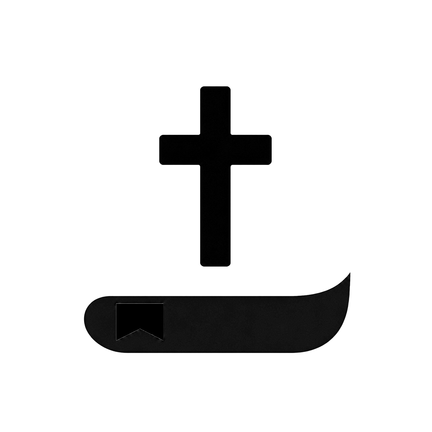
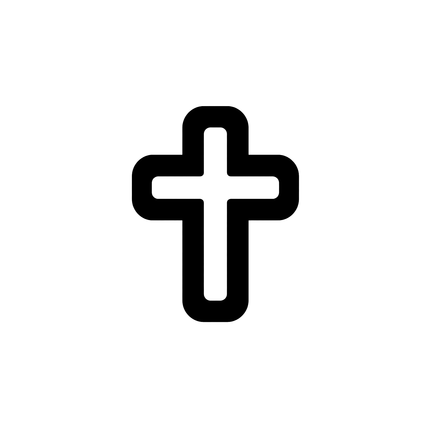
feat: adopt terracotta cross branding and app theme

Changed region(s): [[0.1806, 0.1806, 0.8125, 0.8426]]

diff --git a/scripts/generate-icons.js b/scripts/generate-icons.js
@@ -75,18 +75,11 @@ const androidSplashSizes = [
 const adaptiveForegroundScale = 0.78;
 
 // The selected square artwork contains both the launcher background and the
-// ivory cross/page mark. Android adaptive icons need those as separate layers
+// ivory cross mark. Android adaptive icons need those as separate layers
 // so the mark remains inside the launcher mask's safe area.
 const adaptiveBackgroundSvg = `
 <svg width="432" height="432" viewBox="0 0 432 432" xmlns="http://www.w3.org/2000/svg">
-  <defs>
-    <linearGradient id="blue" x1="0" y1="0" x2="1" y2="1">
-      <stop offset="0" stop-color="#24A5ED"/>
-      <stop offset="0.42" stop-color="#0D9BE0"/>
-      <stop offset="1" stop-color="#066EAD"/>
-    </linearGradient>
-  </defs>
-  <rect width="432" height="432" fill="url(#blue)"/>
+  <rect width="432" height="432" fill="#AD5942"/>
 </svg>
 `;
 
@@ -145,36 +138,9 @@ const createSelectedForegroundBuffer = async () => {
       const red = data[sourceOffset];
       const green = data[sourceOffset + 1];
       const blue = data[sourceOffset + 2];
-      let alpha = 0;
-
-      // The ivory mark is deliberately separated by its warm, high-value
-      // palette. A proportional score retains anti-aliased edges.
-      if (red > 40 && green > 125 && blue > 145) {
-        const ivoryScore = Math.min(
-          (red - 40) / 202,
-          (green - 125) / 113,
-          (blue - 145) / 83
-        );
-        alpha = Math.max(alpha, Math.min(1, ivoryScore));
-      }
-
-      // Preserve the deep-blue bookmark as a distinct foreground shape. Its
-      // source geometry is a rectangle with a centered V-shaped cut-out.
-      const inBookmarkBounds = x >= 255 && x <= 435 && y >= 952 && y <= 1095;
-      const bookmarkTipY = 1049 + Math.abs(x - 345) * (45 / 88);
-      if (
-        inBookmarkBounds &&
-        x >= 257 &&
-        x <= 433 &&
-        y >= 954 &&
-        y <= 1094 &&
-        (x <= 345 || y <= bookmarkTipY) &&
-        red < 40 &&
-        green < 130 &&
-        blue < 190
-      ) {
-        alpha = Math.max(alpha, 1);
-      }
+      // The approved cream cross has much more green than its terracotta
+      // background. Keep the cream opaque and soften only boundary pixels.
+      const alpha = Math.max(0, Math.min(1, (green - 115) / 90));
 
       output[sourceOffset] = red;
       output[sourceOffset + 1] = green;
@@ -264,7 +230,10 @@ const writeAdaptiveLegacyOutput = async (outputPath, size, round = false) => {
     const circleMask = Buffer.from(
       `<svg width="${size}" height="${size}" viewBox="0 0 ${size} ${size}" xmlns="http://www.w3.org/2000/svg"><circle cx="${size / 2}" cy="${size / 2}" r="${size / 2}" fill="white"/></svg>`
     );
-    pipeline = pipeline.composite([{ input: circleMask, blend: 'dest-in' }]);
+    pipeline = pipeline.composite([
+      { input: foreground },
+      { input: circleMask, blend: 'dest-in' },
+    ]);
   }
 
   await pipeline.webp({ lossless: true }).toFile(outputPath);
@@ -355,6 +324,7 @@ async function generateIcons() {
     );
   }
 
+  await ensureDirectory(path.join(androidResDir, 'mipmap-anydpi-v26'));
   for (const launcherXmlName of ['ic_launcher.xml', 'ic_launcher_round.xml']) {
     await fs.writeFile(
       path.join(androidResDir, 'mipmap-anydpi-v26', launcherXmlName),

diff --git a/src/contexts/ThemeContext.tsx b/src/contexts/ThemeContext.tsx
@@ -110,8 +110,8 @@ const baseDarkColors: ThemeColors = {
   success: '#62C082', // --success 140 43% 57%
   warning: '#E9A23F', // --warning 35 79% 58%
   overlay: 'rgba(17, 17, 13, 0.62)',
-  accentSurface: '#10384C', // --accent 200 65% 18%
-  tabActive: '#ADDCFF', // --accent-foreground, the active tab pill glyph
+  accentSurface: '#492B22', // Terracotta selected surface
+  tabActive: '#F0C8B8', // --accent-foreground, the active tab pill glyph
   tabInactive: '#B0A99B',
   bibleBackground: '#11110D',
   bibleSurface: '#201E18',
@@ -141,8 +141,8 @@ const baseLightColors: ThemeColors = {
   success: '#2E8E5A', // --success 147 51% 37%
   warning: '#D27519', // --warning 30 79% 46%
   overlay: 'rgba(26, 25, 20, 0.34)',
-  accentSurface: '#D9EEFC', // --accent 204 87% 92%
-  tabActive: '#005F8F', // --accent-foreground, the active tab pill glyph
+  accentSurface: '#F4E1D8', // Terracotta selected surface
+  tabActive: '#9F503B', // --accent-foreground, the active tab pill glyph
   tabInactive: '#69624F',
   bibleBackground: '#F0ECE5',
   bibleSurface: '#FAF9F4',
@@ -153,7 +153,7 @@ const baseLightColors: ThemeColors = {
   bibleControlBackground: '#1A1914',
 };
 
-// The vellum scope uses the deep accent so EL blue reads on warm paper; Field
+// The vellum scope uses the deep accent so terracotta reads on warm paper; Field
 // dark uses the lighter primary so it reads on the near-black ground.
 const LIGHT_FAMILY_MODES: ReadonlySet<ThemeMode> = new Set(['light']);
 

diff --git a/src/constants/colors.ts b/src/constants/colors.ts
@@ -11,24 +11,24 @@ export const colors = {
   primaryText: '#EFEBE1',
   secondaryText: '#B0A99B',
 
-  // Accent colors — Every Language blue (default palette, dark-family primary)
-  accent: '#35A7E9',
-  accentGreen: '#35A7E9', // Legacy name — actual brand color
-  accentPrimary: '#35A7E9',
-  accentSecondary: '#ADDCFF',
+  // Accent colors — Terracotta (default palette, dark-family primary)
+  accent: '#D88D74',
+  accentGreen: '#D88D74', // Legacy name — actual brand color
+  accentPrimary: '#D88D74',
+  accentSecondary: '#F0C8B8',
   accentTertiary: '#B0A99B',
-  accentSurface: '#10384C',
+  accentSurface: '#492B22',
 
   // Named aliases kept for backward compatibility
-  tibetanMaroon: '#35A7E9',
-  tibetanMaroonLight: '#ADDCFF',
+  tibetanMaroon: '#D88D74',
+  tibetanMaroonLight: '#F0C8B8',
   saffronGold: '#ECE8DF',
   saffronGoldLight: '#69624F',
   skyBlue: '#B0A99B',
-  skyBlueLight: '#0074AD',
+  skyBlueLight: '#9F503B',
 
   // Tab colors
-  tabActive: '#ADDCFF',
+  tabActive: '#F0C8B8',
   tabInactive: '#B0A99B',
 
   // Additional utility colors
@@ -46,7 +46,7 @@ export const colors = {
   bibleDivider: '#3D382E',
   biblePrimaryText: '#EFEBE1',
   bibleSecondaryText: '#B0A99B',
-  bibleAccent: '#35A7E9',
+  bibleAccent: '#D88D74',
   bibleControlBackground: '#EFEBE1',
 } as const;
 

diff --git a/src/constants/appearancePalettes.ts b/src/constants/appearancePalettes.ts
@@ -1,6 +1,5 @@
-// EL blue is the sole accent palette — the Every Language brand accent, used once
-// per region. Saved preferences of the retired ember/sapphire/teal/olive palettes
-// fall back to it via the resolver in ThemeContext + the persisted-state sanitizer.
+// Terracotta is the sole accent palette, matching the approved app logo.
+// Keep the historical el-blue storage ID so existing preferences remain valid.
 export const APPEARANCE_PALETTE_IDS = ['el-blue'] as const;
 
 export type AppearancePaletteId = (typeof APPEARANCE_PALETTE_IDS)[number];
@@ -30,13 +29,11 @@ export const APPEARANCE_PALETTES: AppearancePalette[] = [
   {
     id: 'el-blue',
     swatches: {
-      // Field dark reads EL blue at hsl(202 80% 56%); vellum takes the deep
-      // variant hsl(200 100% 28%), which is the only pairing the EL system
-      // allows for blue text on pale-blue fills.
-      primary: '#35A7E9',
-      primaryDeep: '#005F8F',
-      secondary: '#ADDCFF',
-      secondaryDeep: '#00567F',
+      // A lighter clay for dark surfaces; a deeper logo terracotta for warm paper.
+      primary: '#D88D74',
+      primaryDeep: '#9F503B',
+      secondary: '#F0C8B8',
+      secondaryDeep: '#934731',
       tertiary: '#B0A99B',
     },
   },

diff --git a/src/contexts/themeColors.test.ts b/src/contexts/themeColors.test.ts
@@ -203,7 +203,7 @@ test('Light-family accents (primaryDeep) stay readable on vellum surfaces', () =
   }
 });
 
-test('EL blue is the sole appearance palette and the retired ids stay retired', () => {
+test('the terracotta palette preserves the stored id and retired ids stay retired', () => {
   // The palette definition lives in appearancePalettes.ts; ThemeContext no
   // longer carries a picker-options list (it was dead code with stale copy).
   const paletteSource = readFileSync(
@@ -211,7 +211,7 @@ test('EL blue is the sole appearance palette and the retired ids stay retired', 
     'utf8'
   );
 
-  assert.match(paletteSource, /id:\s*'el-blue'/, 'EL blue palette should be present');
+  assert.match(paletteSource, /id:\s*'el-blue'/, 'The existing storage id should be preserved');
   for (const retired of ['ember', 'sapphire', 'teal', 'olive']) {
     assert.doesNotMatch(
       paletteSource,

diff --git a/docs/app-icon.md b/docs/app-icon.md
@@ -1,0 +1,17 @@
+# App icon
+
+`assets/icon-source.png` is the approved terracotta and cream hollow-cross artwork.
+Run `node scripts/generate-icons.js` to regenerate the Expo, iOS, Android, and site icons.
+
+The iOS and site icons preserve the source artwork. Android separates the cream
+cross from a terracotta background (`#AD5942`) with padding for launcher masks.
+Keep the matching adaptive background color in `app.json` synchronized with the
+generator. Foreground extraction is specific to this artwork's cream palette.
+
+The launch splash remains neutral to support discreet mode. Native launcher icon
+changes take effect in a new app build.
+
+The app theme also uses terracotta: `#D88D74` on dark surfaces and `#9F503B`
+on light surfaces, with matching selected-tab fills. These shades retain readable
+contrast on the existing warm backgrounds. The historical `el-blue` preference
+ID stays unchanged for saved-settings compatibility; its swatches are terracotta.
